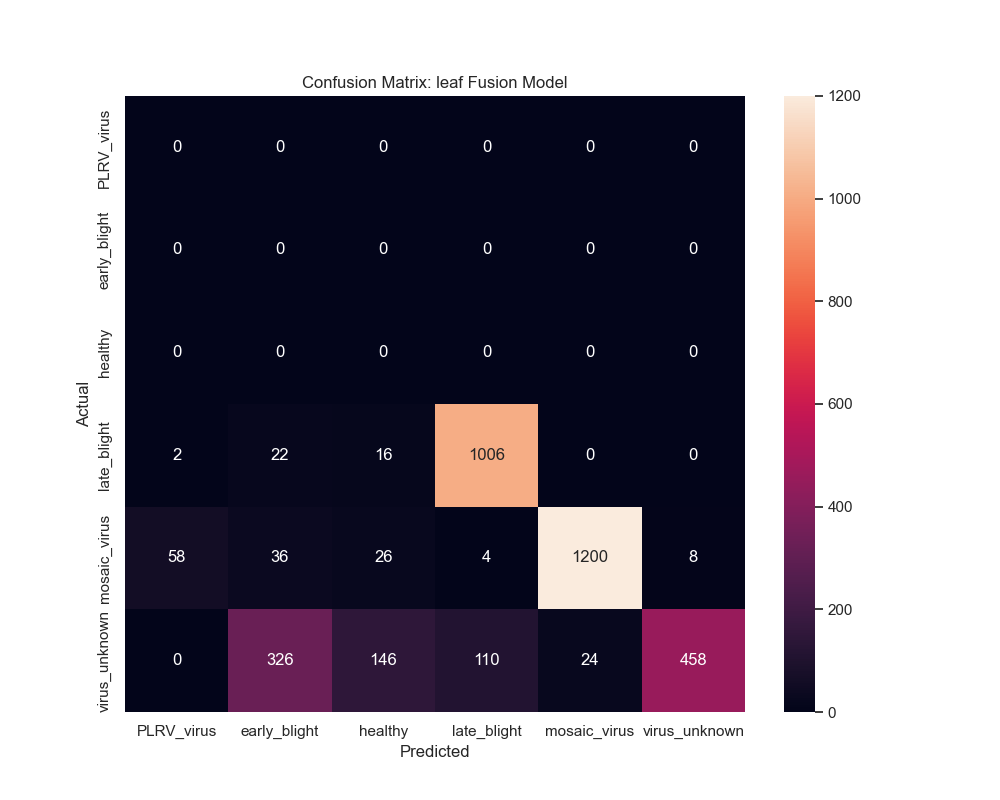
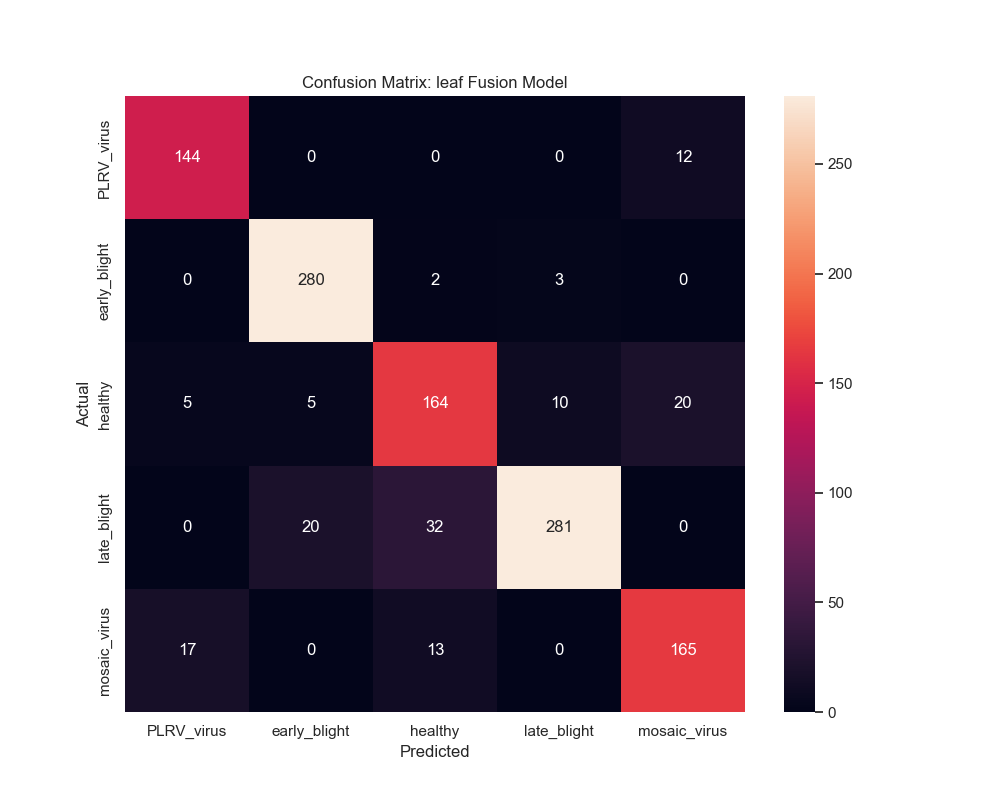
added sobel to image view, fixed some diseases being shown as zero in output. Time stamps to save outputs

diff --git a/train_model.py b/train_model.py
@@ -5,10 +5,13 @@ import config
 import matplotlib.pyplot as plt
 import seaborn as sns
 import numpy as np
-from tqdm import tqdm
+import pandas as pd
+import datetime
 
+from tqdm import tqdm
 from Potato_bunch_brain import build_combined_model
 from sklearn.metrics import classification_report, confusion_matrix
+from sklearn.utils import class_weight
 
 # Focus on leaf and tubr for foundation, field is midterm
 parser = argparse.ArgumentParser(description = "Train Potato ID Fusion Model")
@@ -28,7 +31,6 @@ else:
     # Field domain for midterm
     data_dir = os.path.join(script_dir, config.BASE_DIR, f'{DOMAIN}_classes')
 
-
 train_raw = tf.keras.utils.image_dataset_from_directory(
     data_dir,
     validation_split = 0.3,
@@ -37,29 +39,36 @@ train_raw = tf.keras.utils.image_dataset_from_directory(
     shuffle = True,
     **config.DATA_PARAMS)
 
-val_raw = tf.keras.utils.image_dataset_from_directory(
-    data_dir,
-    validation_split = 0.3,
-    subset="validation",
-    color_mode = "rgb",
-    shuffle = False,
-    **config.DATA_PARAMS)
+# weights for abundance of some photos over another 
+y_train = np.concatenate([y for x, y in train_raw], axis = 0)
+
+from sklearn.utils import class_weight
+weights = class_weight.compute_class_weight(
+    class_weight = 'balanced',
+    classes = np.unique(y_train),
+    y = y_train)
+class_weights_dict = dict(enumerate(weights))
 
 class_names = train_raw.class_names
 num_classes = len(class_names)
+
+val_raw = tf.keras.utils.image_dataset_from_directory(
+    data_dir,
+    validation_split = 0.3,
+    subset = "validation",
+    color_mode = "rgb",
+    shuffle = True,
+    **config.DATA_PARAMS)
+
+val_labels = np.concatenate([y for x, y in val_raw], axis=0)
+print("Validation images per class:", dict(zip(class_names, np.bincount(val_labels))))
 
 # Inputs for 3 branches 
 def prepare_triple_input(image, label):
     norm_image = tf.cast(image, tf.float32) / 255.0 # Normalize 
     gray_image = tf.image.rgb_to_grayscale(norm_image)
 
-    # start a branch
-    sobel = tf.image.sobel_edges(gray_image[tf.newaxis, ...])[0]
-    # combine horizontal and vertical edges for mag.
-    sobel_mag = tf.sqrt(tf.reduce_sum(tf.square(sobel), axis = -1))
-    # standarized 
-    sobel_mag = tf.image.per_image_standardization(sobel_mag)
-    return (norm_image, gray_image, sobel_mag), label # rgb, gray, sobel 
+    return (norm_image, gray_image, gray_image), label # rgb, gray, sobel 
 
 train_spud = train_raw.map(prepare_triple_input).cache().prefetch(tf.data.AUTOTUNE)
 val_spud = val_raw.map(prepare_triple_input).cache().prefetch(tf.data.AUTOTUNE)
@@ -94,32 +103,38 @@ plot_dir = os.path.join(script_dir, config.OUTPUT_DIR, 'fusion', 'plots')
 os.makedirs(model_dir, exist_ok = True)
 os.makedirs(plot_dir, exist_ok = True)
 
+timestamp = datetime.datetime.now().strftime("%Y%m%d_%H%M%S")
+
 history = model.fit(
     train_spud,
     validation_data = val_spud,
-    epochs = config.EPOCHS)
+    epochs = config.EPOCHS,
+    class_weight = class_weights_dict)
 
-model.save(os.path.join(model_dir, f'potato_{DOMAIN}_fusion_model.keras'))
+model.save(os.path.join(model_dir, f'potato_{DOMAIN}_model_{timestamp}.keras'))
 plot_training_history(history, plot_dir, DOMAIN, args.stage)
 
 # Confusion Matrtix for predictions
 y_true = []
 y_pred = []
-total_batches = tf.data.experimental.cardinality(val_spud).numpy()
-
-for images, labels in tqdm(val_spud, total = total_batches, desc = "Evaluating"):
-    preds = model.predict(images, verbose = 0)
-    y_true.extend(labels.numpy())
-    y_pred.extend(np.argmax(preds, axis = 1))
 
 # Classification Report
-for images, labels in tqdm(val_spud, total = total_batches, desc = "Evaluating"):   
-    preds = model.predict(images, verbose = 0)
+for images, labels in tqdm(val_spud, desc = "Evaluating"):   
+    preds = model.predict(list(images), verbose = 0)
     y_true.extend(labels.numpy())
     y_pred.extend(np.argmax(preds, axis = 1))
 
-print(classification_report(y_true, y_pred, target_names = class_names))
+def save_report_as_image(y_true, y_pred, target_names, plot_dir):
+    # Create the report as a dictionary
+    report = classification_report(y_true, y_pred, target_names=target_names, output_dict=True)
+    df = pd.DataFrame(report).transpose().round(2)
 
+    plt.figure(figsize=(8, 4))
+    plt.table(cellText=df.values, rowLabels=df.index, colLabels=df.columns, loc='center')
+    plt.axis('off')
+    plt.title(f"Results: {DOMAIN}")
+    plt.savefig(os.path.join(plot_dir, f'report_{DOMAIN}_{timestamp}.png'), bbox_inches = 'tight')
+    plt.close()
 
 cm = confusion_matrix(y_true, y_pred)
 plt.figure(figsize = (10, 8))
@@ -129,4 +144,4 @@ sns.heatmap(cm, annot = True, fmt = 'd',
 plt.title(f'Confusion Matrix: {DOMAIN} Fusion Model')
 plt.ylabel('Actual')
 plt.xlabel('Predicted')
-plt.savefig(os.path.join(plot_dir, 'confusion_matrix.png'))
+plt.savefig(os.path.join(plot_dir, f'cm_{DOMAIN}_{timestamp}.png'), bbox_inches = 'tight')

diff --git a/image_view.py b/image_view.py
@@ -1,6 +1,9 @@
 import tensorflow as tf
 import matplotlib.pyplot as plt
 import os
+import config
+
+from build_sobel_model import sobel_edge_layer
 
 # Random images for report
 base_dir = 'hot_potato'
@@ -17,30 +20,38 @@ for cat in categories:
     # Use folder names as classes
     dataset = tf.keras.utils.image_dataset_from_directory(
         dataset_dir,
-        image_size = (224, 224),
-        batch_size = 1,
-        shuffle = True)
+        shuffle = True,
+        **config.DATA_PARAMS)
 
     class_names = dataset.class_names
 
     for images, labels in dataset.take(1):
         img_rgb = images[0] / 255.0  
         img_gray = tf.image.rgb_to_grayscale(img_rgb)
+        # 4d tensor for sobel
+        img_sobel = sobel_edge_layer(img_gray[tf.newaxis, ...])
+        img_sobel_plot = tf.squeeze(img_sobel).numpy()
 
         current_class = class_names[labels[0]]
     
-        plt.figure(figsize = (10, 5))
+        plt.figure(figsize = (15, 5))
 
         # RGB Image
-        plt.subplot(1, 2, 1)
+        plt.subplot(1, 3, 1)
         plt.imshow(img_rgb)
         plt.title(f"RGB: {current_class}")
         plt.axis("off")
 
         # Grayscale Image
-        plt.subplot(1, 2, 2)
+        plt.subplot(1, 3, 2)
         plt.imshow(img_gray.numpy().squeeze(), cmap = 'gray')
         plt.title(f"Grayscale: {current_class}")
+        plt.axis("off")
+
+        # Sobel Image
+        plt.subplot(1, 3, 3)
+        plt.imshow(img_sobel_plot, cmap='viridis') 
+        plt.title("Internal Feature:\nSobel Magnitude")
         plt.axis("off")
 
         plt.show()

diff --git a/data_preprocessing.py b/data_preprocessing.py
@@ -31,14 +31,14 @@ for root, dir, files in os.walk(input_dir):
 
 print('Tensorflow: Resizing.')
 
-for input_path, output_path in tqdm(image_files, desc='Resizing'):
+for input_path, output_path in tqdm(image_files, desc = 'Resizing'):
     try:
         # Standardized RGB 
         img_bytes = tf.io.read_file(input_path)
-        img = tf.io.decode_image(img_bytes, channels=3, expand_animations=False)
+        img = tf.io.decode_image(img_bytes, channels = 3, expand_animations = False)
 
         # Standardized image size (224x224)
-        img_resized = tf.image.resize(img, target_size, method = 'pad', antialias = True)
+        img_resized = tf.image.resize_with_pad(img, target_height = target_size[0], target_width = target_size[1], antialias = True)
 
         # Convert and save directly to the perfectly mapped output_path
         img_uint8 = tf.cast(img_resized, tf.uint8)